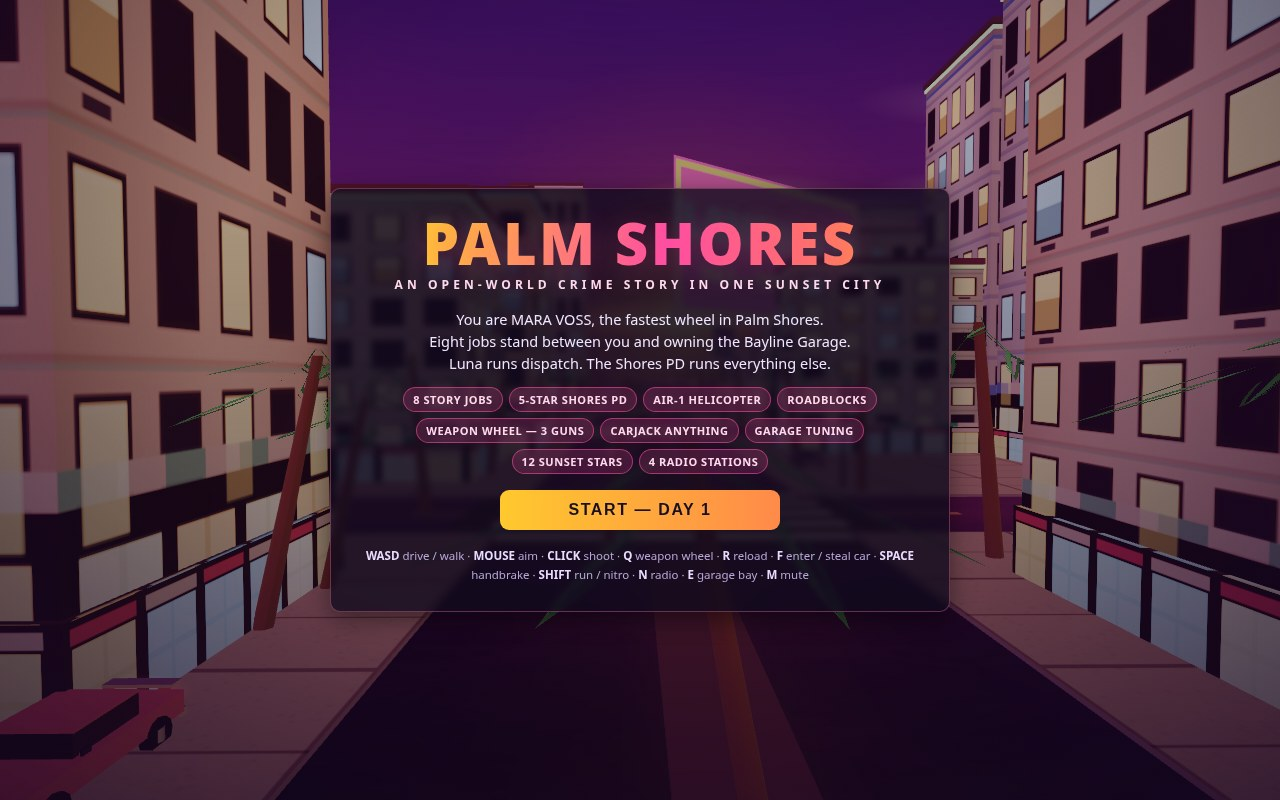
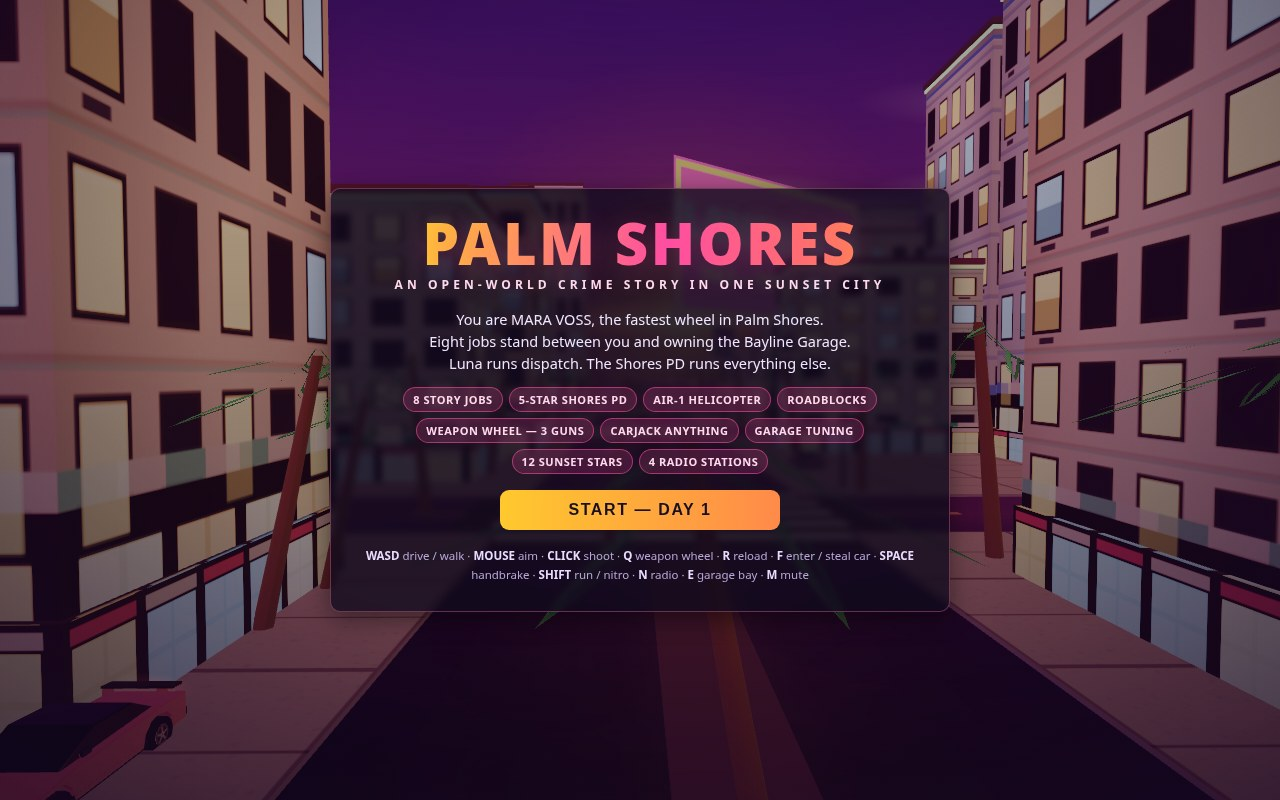
Round 6 vehicle rebuild — extruded side-profile bodies with real wheel arches: low wide Vespera GT coupe (clearcoat pink, glasshouse, wing, diffuser, full-width light bar), sedan-profile Shores PD cruisers with readable door livery and strobing light bar, five-spoke alloy wheels, shaped sedan/hatch/

Changed region(s): [[0.0, 0.8438, 0.1562, 0.9688]]

diff --git a/game/src/vehicles.js b/game/src/vehicles.js
@@ -1,123 +1,209 @@
 // Vehicle factory and city traffic. Every car in Palm Shores — the hero
 // Vespera GT, traffic, parked cars waiting to be borrowed, Shores PD
-// cruisers — is built here from the same low-poly kit of boxes and cylinders,
-// so the whole fleet shares one look and one entity shape.
+// cruisers — is built here. Bodies are extruded side profiles (sloped hood,
+// raked glasshouse, real wheel-arch cutouts), so a car reads as a car from
+// any angle; wheels carry five-spoke alloy faces; paint is clearcoat
+// physical material that picks up the sunset environment.
 
 import * as THREE from 'three';
 import { TRAFFIC_MODELS, TRAFFIC_COLORS } from './config.js';
 import { rngPick, rngRange, clamp } from './random.js';
 import { ROAD_CENTERS } from './city.js';
-import { signTexture, glowTexture } from './textures.js';
+import { signTexture, glowTexture, rimTexture } from './textures.js';
 
-const glassMat = new THREE.MeshStandardMaterial({ color: 0x141c2c, metalness: 0.7, roughness: 0.08, envMapIntensity: 1.6 });
-const tireMat = new THREE.MeshStandardMaterial({ color: 0x0d0d10, roughness: 0.95 });
-const rimMat = new THREE.MeshStandardMaterial({ color: 0xb8c4ce, metalness: 0.8, roughness: 0.35 });
-const chromeMat = new THREE.MeshStandardMaterial({ color: 0xd8dee6, metalness: 0.9, roughness: 0.2 });
+const glassMat = new THREE.MeshStandardMaterial({ color: 0x101a28, metalness: 0.7, roughness: 0.08, envMapIntensity: 1.7 });
+const tireMat = new THREE.MeshStandardMaterial({ color: 0x0c0c0f, roughness: 0.92 });
+const chromeMat = new THREE.MeshStandardMaterial({ color: 0xd8dee6, metalness: 0.9, roughness: 0.22 });
+const trimMat = new THREE.MeshStandardMaterial({ color: 0x14151c, metalness: 0.3, roughness: 0.65 });
 const tailMat = new THREE.MeshStandardMaterial({ color: 0x30060c, emissive: 0xff2233, emissiveIntensity: 2.8 });
-let glowTexShared = null;
+const headMat = new THREE.MeshStandardMaterial({ color: 0x444033, emissive: 0xffe9b0, emissiveIntensity: 2.4 });
+let pdDoorTex = null, glowTexShared = null, rimTexShared = null;
 const glowTex = () => glowTexShared ??= glowTexture();
+
+// ---- profile geometry --------------------------------------------------------
+// A car's side silhouette as an extruded shape: `top` lists the outline from
+// the rear bumper, over the roofline, to the nose; the bottom edge is drawn
+// back with an arch cut over each axle. Shape +x = front of the car.
+function archBottom(L, axles, r = 0.47, y = 0.30) {
+  const pts = [];
+  for (const wx of [...axles].sort((a, b) => b - a)) {
+    pts.push([wx + r, y]);
+    for (let i = 1; i < 6; i++) { const a = (i / 6) * Math.PI; pts.push([wx + r * Math.cos(a), y + r * Math.sin(a)]); }
+    pts.push([wx - r, y]);
+  }
+  pts.push([-L / 2, y]);
+  return pts;
+}
+function profileGeo(top, L, width, axles) {
+  const shape = new THREE.Shape();
+  shape.moveTo(top[0][0], top[0][1]);
+  for (let i = 1; i < top.length; i++) shape.lineTo(top[i][0], top[i][1]);
+  if (axles) for (const [x, y] of archBottom(L, axles)) shape.lineTo(x, y);
+  shape.closePath();
+  const geo = new THREE.ExtrudeGeometry(shape, { depth: width, bevelEnabled: true, bevelThickness: 0.025, bevelSize: 0.025, bevelSegments: 1, curveSegments: 14 });
+  geo.translate(0, 0, -width / 2);
+  geo.rotateY(-Math.PI / 2); // shape +x (the nose) becomes world +z
+  return geo;
+}
+
+// Silhouettes per kind: [width, length, axles, bodyTop, cabinTop|null, cabinWidth scale]
+const PROFILES = {
+  coupe: {
+    W: 1.88, L: 4.35, axles: [1.32, -1.32],
+    body: [[-2.17, 0.82], [-1.50, 0.86], [0.95, 0.82], [1.90, 0.68], [2.17, 0.52], [2.17, 0.30]],
+    cabin: [[-1.45, 0.84], [-0.80, 1.20], [0.15, 1.24], [0.95, 0.84]], cabinW: 0.80,
+  },
+  sedan: {
+    W: 1.86, L: 4.50, axles: [1.40, -1.40],
+    body: [[-2.25, 0.88], [-1.15, 0.90], [1.15, 0.86], [1.95, 0.76], [2.25, 0.58], [2.25, 0.30]],
+    cabin: [[-1.50, 0.88], [-1.00, 1.34], [0.50, 1.36], [1.20, 0.88]], cabinW: 0.82,
+  },
+  hatch: {
+    W: 1.82, L: 3.90, axles: [1.15, -1.15],
+    body: [[-1.95, 0.92], [-0.90, 0.94], [1.10, 0.88], [1.75, 0.74], [1.95, 0.56], [1.95, 0.30]],
+    cabin: [[-1.80, 0.92], [-1.15, 1.38], [0.35, 1.40], [1.05, 0.90]], cabinW: 0.82,
+  },
+  pickup: {
+    W: 1.96, L: 4.90, axles: [1.55, -1.55],
+    body: [[-2.45, 1.02], [-0.55, 1.02], [-0.55, 1.44], [0.75, 1.44], [1.55, 0.95], [2.20, 0.88], [2.45, 0.62], [2.45, 0.32]],
+    cabin: null, cabinW: 0.86,
+  },
+  van: {
+    W: 2.00, L: 4.70, axles: [1.50, -1.50],
+    body: [[-2.35, 1.72], [1.60, 1.72], [2.35, 1.05], [2.35, 0.32]],
+    cabin: null, cabinW: 0.9,
+  },
+};
+PROFILES.taxi = PROFILES.sedan;
+PROFILES.cruiser = PROFILES.sedan;
+
+const geoCache = {};
+function kindGeos(kind) {
+  if (geoCache[kind]) return geoCache[kind];
+  const p = PROFILES[kind] || PROFILES.sedan;
+  const geos = {
+    body: profileGeo(p.body, p.L, p.W, p.axles),
+    cabin: p.cabin ? profileGeo(p.cabin, p.L, p.W * p.cabinW, null) : null,
+    p,
+  };
+  geoCache[kind] = geos;
+  return geos;
+}
+
+// ---- shared small parts -------------------------------------------------------
+const tireGeo = new THREE.CylinderGeometry(0.34, 0.34, 0.24, 18);
+const rimGeo = new THREE.CylinderGeometry(0.205, 0.205, 0.25, 12);
+const rimFaceGeo = new THREE.CircleGeometry(0.2, 20);
+const rimFaceMat = () => new THREE.MeshStandardMaterial({ map: rimTexShared ??= rimTexture(), metalness: 0.6, roughness: 0.35 });
+
+function box(w, h, d, mat, x, y, z, parent) {
+  const m = new THREE.Mesh(new THREE.BoxGeometry(w, h, d), mat);
+  m.position.set(x, y, z); m.castShadow = true; parent.add(m); return m;
+}
+function glowSprite(g, color, x, y, z, sx, sy, opacity) {
+  const s = new THREE.Sprite(new THREE.SpriteMaterial({ map: glowTex(), color, transparent: true, opacity, blending: THREE.AdditiveBlending, depthWrite: false, fog: false }));
+  s.position.set(x, y, z); s.scale.set(sx, sy, 1); g.add(s); return s;
+}
 // A soft pool of coloured light the car throws onto the wet asphalt.
 function underGlow(g, color, w, l, opacity, x = 0) {
   const m = new THREE.Mesh(new THREE.PlaneGeometry(w, l),
     new THREE.MeshBasicMaterial({ map: glowTex(), color, transparent: true, opacity, blending: THREE.AdditiveBlending, depthWrite: false, fog: false }));
   m.rotation.x = -Math.PI / 2; m.position.set(x, 0.06, 0); m.renderOrder = 2; g.add(m);
 }
-const headMat = new THREE.MeshStandardMaterial({ color: 0x444033, emissive: 0xffe9b0, emissiveIntensity: 2.4 });
-let pdDoorTex = null;
-
-function box(w, h, d, mat, x, y, z, parent) {
-  const m = new THREE.Mesh(new THREE.BoxGeometry(w, h, d), mat);
-  m.position.set(x, y, z); m.castShadow = true; parent.add(m); return m;
+function makeWheel(sx) {
+  const pivot = new THREE.Group();
+  const spin = new THREE.Group();
+  const tire = new THREE.Mesh(tireGeo, tireMat); tire.rotation.z = Math.PI / 2; tire.castShadow = true; spin.add(tire);
+  const rim = new THREE.Mesh(rimGeo, chromeMat); rim.rotation.z = Math.PI / 2; spin.add(rim);
+  const face = new THREE.Mesh(rimFaceGeo, rimFaceMat());
+  face.position.x = sx * 0.128; face.rotation.y = sx * Math.PI / 2; spin.add(face);
+  pivot.add(spin);
+  return { pivot, spin };
 }
 
 export function makeCarEntity(scene, { kind = 'sedan', color = 0xffffff, police = false, model = '' } = {}) {
   const g = new THREE.Group();
-  const paint = new THREE.MeshStandardMaterial({ color: police ? 0x15151c : color, metalness: 0.45, roughness: 0.16, envMapIntensity: 1.5, emissive: police ? 0x000000 : new THREE.Color(color).multiplyScalar(0.14) });
-  const dims = { coupe: [1.86, 4.35, 0.46], sedan: [1.84, 4.5, 0.6], hatch: [1.8, 3.9, 0.62], pickup: [1.95, 4.9, 0.72], van: [2.0, 4.7, 0.8], taxi: [1.84, 4.5, 0.6], cruiser: [1.9, 4.7, 0.62] }[kind] || [1.84, 4.5, 0.6];
-  const [W, L, bodyH] = dims;
-  box(W, bodyH, L, paint, 0, 0.42 + bodyH / 2, 0, g);                       // body
-  box(W * 0.94, 0.16, L * 0.96, paint, 0, 0.46, 0, g);                      // lower skirt
-  if (kind === 'van') {
-    box(W * 0.96, 1.05, L * 0.86, paint, 0, 1.5, -0.2, g);
-    box(W * 0.9, 0.62, 0.1, glassMat, 0, 1.42, L * 0.24, g);
-  } else if (kind === 'pickup') {
-    box(W * 0.92, 0.55, L * 0.34, glassMat, 0, 1.18, L * 0.22, g);
-    box(W * 0.94, 0.5, L * 0.4, paint, 0, 0.98, -L * 0.28, g);               // bed walls
-    box(W * 0.86, 0.08, L * 0.36, tireMat, 0, 0.78, -L * 0.28, g);          // bed floor
-  } else {
-    const cab = box(W * 0.8, 0.44, L * 0.42, glassMat, 0, 0.92 + bodyH * 0.4, -L * 0.05, g);
-    cab.scale.z = 0.92;
-    box(W * 0.82, 0.06, L * 0.38, paint, 0, 1.17 + bodyH * 0.4, -L * 0.05, g); // roof
-    box(W * 0.97, 0.2, L * 0.16, paint, 0, 0.62, L * 0.42, g);               // nose
-    for (const s of [-1, 1]) { // mirrors on slim stalks
-      box(0.05, 0.04, 0.12, paint, s * (W / 2 + 0.05), 1.04, L * 0.16, g);
-      box(0.05, 0.11, 0.2, glassMat, s * (W / 2 + 0.1), 1.08, L * 0.16, g);
-    }
+  const { body: bodyGeo, cabin: cabinGeo, p } = kindGeos(kind);
+  const { W, L, axles } = p;
+  const paint = new THREE.MeshPhysicalMaterial({
+    color: police ? 0x15151c : color, metalness: 0.25, roughness: 0.3,
+    clearcoat: 1, clearcoatRoughness: 0.12, envMapIntensity: 1.6,
+    emissive: police ? 0x000000 : new THREE.Color(color).multiplyScalar(0.12),
+  });
+  const body = new THREE.Mesh(bodyGeo, paint);
+  body.castShadow = true; body.receiveShadow = true; g.add(body);
+  if (cabinGeo) {
+    const cab = new THREE.Mesh(cabinGeo, glassMat);
+    cab.castShadow = true; g.add(cab);
   }
-  if (kind === 'coupe') { // the Vespera's wing and diffuser
-    box(W * 0.92, 0.07, 0.34, chromeMat, 0, 1.06, -L / 2 + 0.1, g);
-    box(0.08, 0.22, 0.3, paint, -W * 0.32, 0.9, -L / 2 + 0.12, g);
-    box(0.08, 0.22, 0.3, paint, W * 0.32, 0.9, -L / 2 + 0.12, g);
+  if (kind === 'pickup') { // glasshouse band proud of the cab + an open bed behind it
+    box(W + 0.04, 0.4, 1.24, glassMat, 0, 1.23, 0.1, g);
+    box(W * 0.8, 0.08, 1.75, trimMat, 0, 1.0, -1.5, g); // bed floor
+  }
+  if (kind === 'van') { // a glass band around the upper body
+    box(W + 0.05, 0.52, L * 0.6, glassMat, 0, 1.3, -0.15, g);
+  }
+  // nose and tail dressing: splitter, grille, diffuser, slim bumpers
+  box(W * 0.96, 0.07, 0.34, trimMat, 0, 0.31, L / 2 - 0.04, g);
+  box(W * 0.58, 0.15, 0.06, trimMat, 0, 0.55, L / 2 + 0.03, g);
+  box(W * 0.99, 0.15, 0.14, trimMat, 0, 0.4, -L / 2 - 0.02, g);
+  if (kind === 'coupe') { // rear wing on struts, diffuser fins, side skirts
+    const wing = box(W * 0.94, 0.05, 0.32, trimMat, 0, 1.04, -L / 2 + 0.14, g); wing.rotation.x = -0.1;
+    box(0.07, 0.2, 0.26, paint, -W * 0.3, 0.9, -L / 2 + 0.14, g);
+    box(0.07, 0.2, 0.26, paint, W * 0.3, 0.9, -L / 2 + 0.14, g);
+    box(W * 0.8, 0.16, 0.1, trimMat, 0, 0.3, -L / 2 - 0.02, g);
+    for (const fx of [-0.3, 0, 0.3]) box(0.05, 0.13, 0.12, trimMat, fx * W, 0.3, -L / 2 - 0.03, g);
+    for (const s of [-1, 1]) box(0.06, 0.13, L * 0.46, trimMat, s * (W / 2 - 0.01), 0.33, 0, g);
+  }
+  if (kind !== 'van' && kind !== 'pickup') for (const s of [-1, 1]) { // mirrors
+    box(0.05, 0.04, 0.12, paint, s * (W / 2 + 0.04), 1.02, L * 0.16, g);
+    box(0.05, 0.11, 0.2, glassMat, s * (W / 2 + 0.09), 1.06, L * 0.16, g);
   }
   if (kind === 'taxi') {
-    const sign = box(0.72, 0.2, 0.3, new THREE.MeshStandardMaterial({ color: 0x111111, emissive: 0xffd23e, emissiveIntensity: 1.4 }), 0, 1.62, 0, g);
+    const sign = box(0.72, 0.2, 0.3, new THREE.MeshStandardMaterial({ color: 0x111111, emissive: 0xffd23e, emissiveIntensity: 1.4 }), 0, 1.48, 0, g);
     sign.castShadow = false;
   }
   if (police) {
-    const white = new THREE.MeshStandardMaterial({ color: 0xf2f0ea, metalness: 0.4, roughness: 0.4 });
-    box(W + 0.03, bodyH * 0.8, L * 0.34, white, 0, 0.46 + bodyH / 2, 0.1, g);   // white doors band
-    box(W * 0.88, 0.07, L * 0.4, white, 0, 1.3, -L * 0.04, g);                 // white roof
-    box(W * 0.7, 0.3, 0.24, tireMat, 0, 0.52, L / 2 + 0.05, g);                // push bar
+    const white = new THREE.MeshPhysicalMaterial({ color: 0xf2f0ea, metalness: 0.25, roughness: 0.3, clearcoat: 1, clearcoatRoughness: 0.12, envMapIntensity: 1.4 });
+    box(W + 0.07, 0.52, L * 0.36, white, 0, 0.72, 0.05, g);                    // white doors band
+    box(W * 0.8, 0.06, L * 0.3, white, 0, 1.4, -0.25, g);                      // white roof cap
+    box(W * 0.7, 0.3, 0.24, trimMat, 0, 0.52, L / 2 + 0.08, g);                // push bar
     if (!pdDoorTex) pdDoorTex = signTexture('SHORES PD', '#f2f0ea', '#14202e');
     for (const s of [-1, 1]) {
       const door = new THREE.Mesh(new THREE.PlaneGeometry(1.5, 0.38), new THREE.MeshBasicMaterial({ map: pdDoorTex }));
-      door.position.set(s * (W / 2 + 0.03), 0.72, 0.1); door.rotation.y = s * Math.PI / 2; g.add(door);
+      door.position.set(s * (W / 2 + 0.055), 0.72, 0.05); door.rotation.y = s * Math.PI / 2; g.add(door);
     }
     const bar = new THREE.Group();
     const red = new THREE.MeshStandardMaterial({ color: 0x220000, emissive: 0xff2038, emissiveIntensity: 3 });
     const blue = new THREE.MeshStandardMaterial({ color: 0x000022, emissive: 0x2255ff, emissiveIntensity: 3 });
     box(0.55, 0.14, 0.3, red, -0.3, 0, 0, bar); box(0.55, 0.14, 0.3, blue, 0.3, 0, 0, bar);
-    bar.position.set(0, 1.66, -L * 0.04); g.add(bar);
+    bar.position.set(0, 1.56, -0.25); g.add(bar);
     g.userData.lightbar = { red, blue };
-    // strobe halos + the red/blue wash the bar throws on the wet road
     for (const [sx, col] of [[-0.32, 0xff2038], [0.32, 0x2255ff]]) {
-      const halo = new THREE.Sprite(new THREE.SpriteMaterial({ map: glowTex(), color: col, transparent: true, opacity: 0.5, blending: THREE.AdditiveBlending, depthWrite: false, fog: false }));
-      halo.position.set(sx, 1.7, -L * 0.04); halo.scale.setScalar(2.6); g.add(halo);
+      glowSprite(g, col, sx, 1.6, -0.25, 2.6, 2.6, 0.5);
       underGlow(g, col, 1.9, L * 1.35, 0.30, sx * 2.4);
     }
   }
-  if (kind === 'coupe' && !police) underGlow(g, color, 3.4, L * 1.3, 0.30); // the Vespera's pink sheen on the asphalt
-  // bumpers, front and rear
-  box(W * 0.99, 0.17, 0.16, chromeMat, 0, 0.4, L / 2 + 0.03, g);
-  box(W * 0.99, 0.17, 0.16, chromeMat, 0, 0.4, -L / 2 - 0.03, g);
+  if (kind === 'coupe' && !police) underGlow(g, color, 3.4, L * 1.3, 0.30);
   // lights, with additive halos so they bloom against the dusk
-  box(0.34, 0.12, 0.06, headMat, -W * 0.3, 0.72, L / 2 + 0.01, g);
-  box(0.34, 0.12, 0.06, headMat, W * 0.3, 0.72, L / 2 + 0.01, g);
-  box(0.36, 0.1, 0.06, tailMat, -W * 0.3, 0.78, -L / 2 - 0.01, g);
-  box(0.36, 0.1, 0.06, tailMat, W * 0.3, 0.78, -L / 2 - 0.01, g);
-  if (kind === 'coupe') box(W * 0.62, 0.07, 0.05, tailMat, 0, 0.82, -L / 2 - 0.01, g); // full-width light bar
-  for (const s of [-1, 1]) {
-    const hg = new THREE.Sprite(new THREE.SpriteMaterial({ map: glowTex(), color: 0xffe9b0, transparent: true, opacity: 0.5, blending: THREE.AdditiveBlending, depthWrite: false, fog: false }));
-    hg.position.set(s * W * 0.3, 0.72, L / 2 + 0.15); hg.scale.setScalar(1.15); g.add(hg);
-  }
-  const tg = new THREE.Sprite(new THREE.SpriteMaterial({ map: glowTex(), color: 0xff2233, transparent: true, opacity: 0.42, blending: THREE.AdditiveBlending, depthWrite: false, fog: false }));
-  tg.position.set(0, 0.78, -L / 2 - 0.15); tg.scale.set(2.1, 0.75, 1); g.add(tg);
+  box(0.36, 0.11, 0.06, headMat, -W * 0.3, 0.66, L / 2 + 0.02, g);
+  box(0.36, 0.11, 0.06, headMat, W * 0.3, 0.66, L / 2 + 0.02, g);
+  box(0.36, 0.1, 0.06, tailMat, -W * 0.3, 0.8, -L / 2 - 0.02, g);
+  box(0.36, 0.1, 0.06, tailMat, W * 0.3, 0.8, -L / 2 - 0.02, g);
+  if (kind === 'coupe') box(W * 0.66, 0.07, 0.05, tailMat, 0, 0.84, -L / 2 - 0.02, g); // full-width light bar
+  for (const s of [-1, 1]) glowSprite(g, 0xffe9b0, s * W * 0.3, 0.66, L / 2 + 0.16, 1.15, 1.15, 0.5);
+  glowSprite(g, 0xff2233, 0, 0.8, -L / 2 - 0.16, 2.1, 0.75, 0.42);
   if (kind === 'coupe') for (const s of [-1, 1]) { // twin exhausts
     const ex = new THREE.Mesh(new THREE.CylinderGeometry(0.05, 0.05, 0.2, 8), chromeMat);
     ex.rotation.x = Math.PI / 2; ex.position.set(s * 0.52, 0.3, -L / 2 - 0.06); g.add(ex);
   }
   // wheels on steering pivots at the front
-  const wheelGeo = new THREE.CylinderGeometry(0.34, 0.34, 0.24, 12);
   const wheels = [], pivots = [];
-  for (const [sx, sz, front] of [[-1, 1, 1], [1, 1, 1], [-1, -1, 0], [1, -1, 0]]) {
-    const pivot = new THREE.Group();
-    pivot.position.set(sx * (W / 2 - 0.05), 0.34, sz * (L / 2 - 0.85));
-    const wheel = new THREE.Mesh(wheelGeo, tireMat);
-    wheel.rotation.z = Math.PI / 2; wheel.castShadow = true;
-    const rim = new THREE.Mesh(new THREE.CylinderGeometry(0.17, 0.17, 0.26, 8), rimMat);
-    rim.rotation.z = Math.PI / 2; wheel.add(rim);
-    pivot.add(wheel); g.add(pivot);
-    wheels.push(wheel); if (front) pivots.push(pivot);
+  for (const [sx, front] of [[-1, 1], [1, 1], [-1, 0], [1, 0]]) {
+    const { pivot, spin } = makeWheel(sx);
+    pivot.position.set(sx * (W / 2 - 0.05), 0.34, front ? axles[0] : axles[1]);
+    g.add(pivot);
+    wheels.push(spin); if (front) pivots.push(pivot);
   }
   scene.add(g);
   const ent = {

diff --git a/game/src/textures.js b/game/src/textures.js
@@ -263,6 +263,23 @@ export function sunsetEnvTexture() {
   return t;
 }
 
+// A five-spoke alloy wheel face, drawn once and reused on every car.
+export function rimTexture() {
+  const c = canvas(128, 128), g = c.getContext('2d');
+  g.fillStyle = '#101014'; g.beginPath(); g.arc(64, 64, 63, 0, 7); g.fill();
+  g.fillStyle = '#23232c'; g.beginPath(); g.arc(64, 64, 58, 0, 7); g.fill();
+  g.strokeStyle = '#c8d2dc'; g.lineWidth = 11; g.lineCap = 'round';
+  for (let i = 0; i < 5; i++) {
+    const a = (i / 5) * Math.PI * 2 - Math.PI / 2;
+    g.beginPath(); g.moveTo(64, 64); g.lineTo(64 + Math.cos(a) * 44, 64 + Math.sin(a) * 44); g.stroke();
+  }
+  g.fillStyle = '#e8eef4'; g.beginPath(); g.arc(64, 64, 15, 0, 7); g.fill();
+  g.fillStyle = '#3a3f47'; g.beginPath(); g.arc(64, 64, 7, 0, 7); g.fill();
+  g.strokeStyle = '#9aa6b2'; g.lineWidth = 4; g.beginPath(); g.arc(64, 64, 55, 0, 7); g.stroke();
+  const t = tex(c); t.wrapS = t.wrapT = THREE.ClampToEdgeWrapping;
+  return t;
+}
+
 // A vertical neon sign, letters stacked down a dark blade — hotel, marina,
 // club names along Sunset Avenue, all original Palm Shores businesses.
 export function neonSignTexture(text, fg) {
